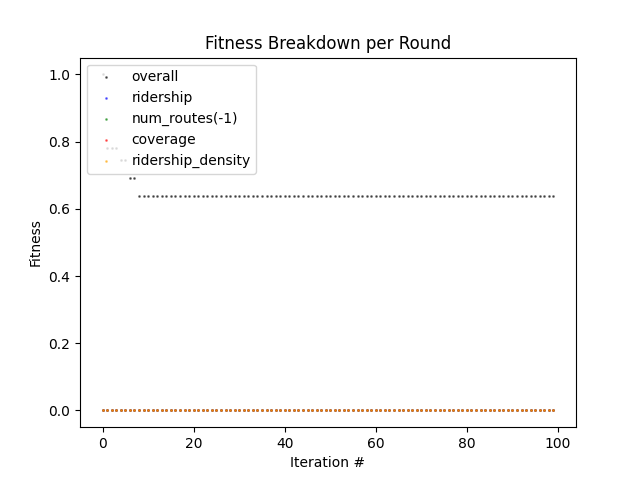
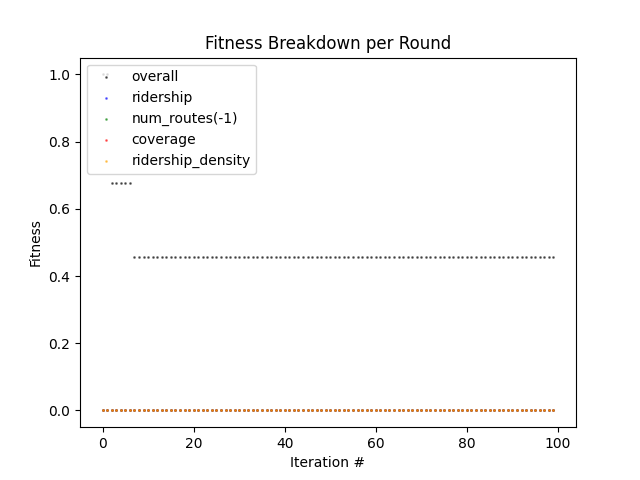
functioning, but too slow

Changed region(s): [[0.2188, 0.5312, 0.875, 0.5625], [0.2188, 0.4062, 0.875, 0.4375]]

diff --git a/source/genetic_algorithm/zone_evaluator.py b/source/genetic_algorithm/zone_evaluator.py
@@ -8,7 +8,7 @@ from root_logger import RootLogger
 
 import random 
 from typing import List
-#random.seed(10)
+random.seed(10)
 
 class Zone(Coords):
     def __init__(self, lat: float, lon: float, name: str):
@@ -40,14 +40,15 @@ class ZoneEvaluator:
         self.print_choices()
         
     def print_choices(self) -> None:
-        result_str = '*\n'
-        for zone in self.zones:
-            result_str += str(zone)
-            result_str += '\t'
-            result_str += str(self.current_stop_choices[self.get_zone_key(zone)])
-            result_str += '\n'
+        # result_str = '*\n'
+        # for zone in self.zones:
+        #     result_str += str(zone)
+        #     result_str += '\t'
+        #     result_str += str(self.current_stop_choices[self.get_zone_key(zone)])
+        #     result_str += '\n'
 
-        print(result_str + '*\n')
+        # print(result_str + '*\n')
+        print("This function is not updated to handle variable number of stop samples.")
 
     def get_zone_key(self, zone: Zone) -> int:
         return self.zone_keys[zone]
@@ -56,8 +57,8 @@ class ZoneEvaluator:
         zone_key = self.get_zone_key(zone)
         return self.stops_in_zone[zone_key]
     
-    def determine_stops_in_range(self, zone: Zone) -> List[Stop]:
-        stops = [s for s in self.pool_of_stops if s.distance_to_point(zone) < params.ZONE_RADIUS]
+    def determine_stops_in_range(self, zone: Zone) -> List[str]:
+        stops = [s.id for s in self.pool_of_stops if s.distance_to_point(zone) < params.ZONE_RADIUS]
         if stops == []:
             RootLogger.log_error(f'Failed to find stops within range {params.ZONE_RADIUS} of {zone.get_coords()}')
         else:
@@ -73,7 +74,7 @@ class ZoneEvaluator:
     def sample_stops(self):
         for z in self.zones:
             z_key = self.get_zone_key(z) 
-            self.current_stop_choices[z_key] = self.sample_stop_for_zone(z)
+            self.current_stop_choices[z_key] = [self.sample_stop_for_zone(z) for i in range(params.ZONE_SAMPLE_NUM)]
         # Update initial_zone_score with new sample
         self.initial_zone_score = self.evaluate_total_zone_distance(self.initial_network)
     
@@ -85,10 +86,10 @@ class ZoneEvaluator:
         # Basically a BFS on a list. Find nearest stop in that group by branching out left and right. 
         distance = 0 
         while cur_index_inc < trip_length or cur_index_dec >= 0:
-            if cur_index_inc < trip_length and trip.stops[cur_index_inc] in target_stops:
+            if cur_index_inc < trip_length and trip.stops[cur_index_inc].id in target_stops:
                 return distance
             
-            if cur_index_dec >= 0 and trip.stops[cur_index_dec] in target_stops:
+            if cur_index_dec >= 0 and trip.stops[cur_index_dec].id in target_stops:
                 return distance
             
             cur_index_inc += 1
@@ -101,30 +102,55 @@ class ZoneEvaluator:
     def route_distance_to_zone(self, route: SimpleRoute, source_stop: Stop, target_zone: Zone) -> int:
         trip_distances = []
         for trip in route.trips:
-            stop_index = trip.get_index_of_stop_id(source_stop.id)
-            if stop_index is not None:
+            if trip.does_stop_at(source_stop):
+                stop_index = trip.get_index_of_stop_id(source_stop)
                 trip_distances.append(self.trip_distance_to_zone(trip, stop_index, target_zone))
         
         if trip_distances == []:
-            RootLogger.log_error(f'It happened!')
+            RootLogger.log_error(f'Neither trip of route {route.id} contained stop {source_stop} that claimed to have route {route.id}!')
+            raise ValueError
 
         return min(trip_distances)
 
 
     def evaluate_zone_distance(self, target_network: TransitNetwork, source_zone: Zone, target_zone: Zone) -> float:
         source_zone_key = self.get_zone_key(source_zone)
-        source_stop = self.current_stop_choices[source_zone_key]
-        routes_options = source_stop.routes
+        all_source_stops = self.current_stop_choices[source_zone_key]
         routes_dist = []
-        for route_id in routes_options:
-            route = target_network.lookup_route_by_id(route_id)
-            route_dist = self.route_distance_to_zone(route, source_stop, target_zone)
-            routes_dist.append(route_dist)
+        all_route_options = []
+
+        # Look at all stops sampled. 
+        for source_stop in all_source_stops:
+
+            # If the stop got removed at some point, just skip it in calculations
+            if not target_network.has_stop(source_stop):
+                continue 
+            
+            route_options = target_network.get_stop_transfers(source_stop)
+            all_route_options += route_options
+
+            # Error cases
+            if route_options == [] and target_network.has_stop(source_stop):
+                stop_route_id, stop_trip_id = target_network.search_for_stop(source_stop)
+                RootLogger.log_error(f'Found stop {source_stop.id} with no routes in network {target_network.id}!')
+                if stop_route_id != None and stop_trip_id != None:
+                    RootLogger.log_error(f'Network contained stop on route {stop_route_id} and trip {stop_trip_id}, but has no transfers.')
+            
+            # Compute Distance
+            for route_id in route_options:
+                route = target_network.lookup_route_by_id(route_id)
+                try:
+                    route_dist = self.route_distance_to_zone(route, source_stop, target_zone)
+                except ValueError:
+                    RootLogger.log_error(f'Stops of {target_network.id} are improperly updated.')
+                    raise TypeError
+                routes_dist.append(route_dist)
 
         if routes_dist == [] or min(routes_dist) == float('inf'):
             RootLogger.log_warning(f'Unable to find route from {source_zone} to {target_zone}, giving distance of {params.DEFAULT_ZONE_DISTANCE}')
-            RootLogger.log_warning(f'None of {source_stop.routes} reach {target_zone}!')
+            RootLogger.log_warning(f'None of {all_route_options} reach {target_zone}!')
             return params.DEFAULT_ZONE_DISTANCE
+
         return min(routes_dist)
 
     def evaluate_total_zone_distance(self, target_network: TransitNetwork):
@@ -136,8 +162,6 @@ class ZoneEvaluator:
             dist_1 = self.evaluate_zone_distance(target_network, source_zone, target_zone)
             dist_2 = self.evaluate_zone_distance(target_network, target_zone, source_zone)
             total_zone_distance += ((dist_1 + dist_2) / 2.0)*weight
-            # if dist_1 != params.DEFAULT_ZONE_DISTANCE or dist_2 != params.DEFAULT_ZONE_DISTANCE:
-            #     print(dist_1, dist_2)
 
         return total_zone_distance
     

diff --git a/source/genetic_algorithm/breeder.py b/source/genetic_algorithm/breeder.py
@@ -46,6 +46,9 @@ def produce_child_trip(first_trip: SimpleTrip, second_trip: SimpleTrip, shared_s
     # We deepcopy because we don't want to be modifying the same stop objects for all of them. 
     RootLogger.log_debug(f'Crafting parameters for new child trip...')
     new_stops = deepcopy(first_trip.stops[:first_index] + second_trip.stops[second_index:])
+
+    # Remove the old routes from the trips.     
+
     new_shapes = deepcopy(first_trip.shape_points[:first_index] + second_trip.shape_points[second_index:])
 
     # We generate global unique ids for performance reasons. 
@@ -56,10 +59,11 @@ def produce_child_trip(first_trip: SimpleTrip, second_trip: SimpleTrip, shared_s
 
     new_trip = SimpleTrip(trip_id=new_id, route_id=new_route, message=new_message, 
                           direction=first_trip.direction, stops=new_stops, shape_points=new_shapes)
+
     RootLogger.log_debug(f'Successfuly created child trip {new_id} on new route {new_route}')
     return new_trip
 
-def get_family(parent_A_trips: List[SimpleTrip], parent_B_trips: List[SimpleTrip]) -> Family or None:
+def sample_parent_trips(parent_A_trips: List[SimpleTrip], parent_B_trips: List[SimpleTrip]) -> Tuple[SimpleTrip, SimpleTrip, str]:
     RootLogger.log_debug('Attempting to randomly sample overlapping trips...')
     times_tried = 0
     parent_trip_A = None 
@@ -81,7 +85,12 @@ def get_family(parent_A_trips: List[SimpleTrip], parent_B_trips: List[SimpleTrip
 
     if parent_trip_A is None: 
         RootLogger.log_warning(f'Failed in finding overlap between parents, returning None.')
-        return None 
+        return None, None, None
+    
+    return parent_trip_A, parent_trip_B, shared_stop_id
+
+def get_family(parent_A_trips: List[SimpleTrip], parent_B_trips: List[SimpleTrip]) -> Family or None:
+    parent_trip_A, parent_trip_B, shared_stop_id = sample_parent_trips(parent_A_trips, parent_B_trips)
 
     RootLogger.log_debug(f'Producing child trip for trips {parent_trip_A.id} and {parent_trip_B.id}.')
     child_trip_A = produce_child_trip(parent_trip_A, parent_trip_B, shared_stop_id) 
@@ -115,6 +124,7 @@ def get_child_trips(parent_A_trips: List[SimpleTrip], parent_B_trips: List[Simpl
     parent_trip_A = get_trip_by_id(parent_A_trips, trip_A_id)
     parent_trip_B = get_trip_by_id(parent_B_trips, trip_B_id)
 
+    # Children Stops
     child_trip_A = produce_child_trip(parent_trip_A, parent_trip_B, shared_stop_id) 
     child_trip_B = produce_child_trip(parent_trip_B, parent_trip_A, shared_stop_id)
 
@@ -127,8 +137,8 @@ def breed_networks(Net_A: TransitNetwork, Net_B: TransitNetwork,
 
     # Randomly choose one them to be the first parent. (i.e. which route starts in the crossover)
 
-    net_A_trips = Net_A.trips 
-    net_B_trips = Net_B.trips
+    net_A_trips = deepcopy(Net_A.trips)
+    net_B_trips = deepcopy(Net_B.trips)
 
     family = get_family(net_A_trips, net_B_trips)
     
@@ -138,11 +148,10 @@ def breed_networks(Net_A: TransitNetwork, Net_B: TransitNetwork,
         return Net_A
 
     else: 
-        # Kill parents
         RootLogger.log_debug(f'Crafting new trips for children networks...')
 
         child_trips = [t for t in net_A_trips if t not in family.parents] + [family.child_A, family.child_B]
-
+        
         RootLogger.log_debug(f'Done crafting new trips for children networks...')
 
         # Generate 'breeded' ids if none provided. 

diff --git a/source/transit_network/transit_network.py b/source/transit_network/transit_network.py
@@ -1,4 +1,4 @@
-from typing import List 
+from typing import List, Tuple
 import pandas as pd 
 import os
 import shutil
@@ -30,6 +30,7 @@ class TransitNetwork:
         self.ridership = self.get_ridership()
         self.coverage = self.get_coverage()
         self.ridership_density_score = self.get_ridership_density_score()
+        self.set_transfer_points()
 
     def get_copy(self):
         # Make this a deepcopy. 
@@ -74,6 +75,39 @@ class TransitNetwork:
 
             score += intersections * ridership
         return score 
+
+    def search_for_stop(self, stop_id: str) -> Tuple[SimpleRoute, SimpleTrip]:
+        for cur_route in self.routes:
+            for cur_trip in cur_route.trips:
+                if stop_id in cur_trip.unique_stop_ids:
+                    return (cur_route.id, cur_trip.id)
+        
+        return None, None
+    
+    def get_stop_transfers(self, target_stop_id: str) -> List[str]:
+        stop_matches = [s for s in self.stops if s.id == target_stop_id]
+        num_matches = len(stop_matches)
+        if num_matches == 0:
+            RootLogger.log_error(f'Failed to find stop of id {target_stop_id} in network {self.id}!')
+            raise KeyError
+        
+        if num_matches > 1:
+            RootLogger.log_warning(f'Found multiple stops of same id {target_stop_id} in network {self.id}, returning first one.')
+
+        return stop_matches[0].routes
+
+    def has_stop(self, stop_id: str) -> bool:
+        all_stops_id = [s.id for s in self.get_stops()]
+        return stop_id in all_stops_id
+
+    def set_transfer_points(self) -> None:
+        # Reset all transfer routes. 
+        for stop in self.stops:
+            stop.routes = [] 
+
+        for cur_trip in self.trips:
+            for stop in cur_trip.stops:
+                stop.add_transfer_routes([cur_trip.route_id])
 
     def lookup_route_by_id(self, id: str) -> SimpleRoute or None:
         matches = [r for r in self.routes if r.id == id]
@@ -192,15 +226,6 @@ def create_network_from_trips(trips: List[SimpleTrip], id: str, family: Family):
             routes_dict[route_id].append(trip)
         else:
             routes_dict[route_id] = [trip]
-
-    # Update transfers for children/parents. 
-    for child in family.children:
-        for stop in child.stops:
-            stop.add_transfer_routes([child.route_id])
-
-    for parent in family.parents:
-        for stop in parent.stops:
-            stop.remove_route(parent.route_id)
     
     new_routes = []
     for route_id in routes_dict:

diff --git a/source/genetic_algorithm/initial_population_generator.py b/source/genetic_algorithm/initial_population_generator.py
@@ -20,12 +20,14 @@ def generate_population(initial_network: TransitNetwork, population_size: int, d
     RootLogger.log_info('Generating Initial Population...')
     babys_to_breed = population_size - 1.0
     for i in range(ceil(babys_to_breed)):
+
         RootLogger.log_debug(f'Generated {i} of {population_size-1}.')
 
         # Randomly sample two parents from the current population, and do so until we fill population. 
         [parent_a, parent_b] = random.choices(current_population, k=2)
-        baby_network = breed_networks(parent_a, parent_b, str(i))
         
+        baby_network = breed_networks(parent_a, parent_b, str(i))
+
         # Add babies to new population. 
         current_population.append(baby_network)
 
@@ -44,7 +46,6 @@ def generate_population(initial_network: TransitNetwork, population_size: int, d
             metrics = generate_metrics(initial_network, current_population)
             print_metrics(metrics)
     RootLogger.log_info('Done Generating Initial Population.')
-    
     return current_population
 
 def generate_metrics(initial_network: TransitNetwork, final_population: List[TransitNetwork]) -> Dict[str, float]:

diff --git a/source/transit_network/trips.py b/source/transit_network/trips.py
@@ -50,6 +50,7 @@ class SimpleTrip(BaseTrip):
         self.shape_points = shape_points
         self.dead = False
         self.set_sequence_values_for_stops()
+        self.set_stop_transfer_points()
         
     @property
     def flattened_shape_points(self):
@@ -58,6 +59,9 @@ class SimpleTrip(BaseTrip):
     @property
     def unique_stop_ids(self):
         return [stop.id for stop in self.stops]
+
+    def does_stop_at(self, stop: str) -> bool:
+        return stop in self.unique_stop_ids
 
     def count_intersections(self):
         unique_trips = {} 
@@ -95,6 +99,10 @@ class SimpleTrip(BaseTrip):
             rows.append(new_row)
     
         return rows
+
+    def set_stop_transfer_points(self):
+        for s in self.stops:
+            s.add_transfer_routes([self.route_id])
         
     @property
     def custom_shape_id(self):

diff --git a/source/transit_network/stops.py b/source/transit_network/stops.py
@@ -33,7 +33,10 @@ class Stop:
         self.routes += [r for r in new_routes if r not in self.routes]
     
     def remove_route(self, target_route: str) -> None:
-        self.routes = [r for r in self.routes if r != target_route]
+        self.remove_routes([target_route])
+    
+    def remove_routes(self, target_routes: List[str]) -> None:
+        self.routes = [r for r in self.routes if r not in target_routes]
 
     @property
     def location_lat(self):

diff --git a/source/transit_network/routes.py b/source/transit_network/routes.py
@@ -13,8 +13,12 @@ class BaseRoute:
         self.name = name
         self.trips = []
     
-    def add_trips(self, trips: BaseTrip):
+    def add_trips(self, trips: List[BaseTrip]):
         self.trips += trips
+
+        for trip in trips:
+            for stop in trip.stops:
+                stop.add_transfer_routes([self.id])
     
     def display_trips(self):
         return ''.join([f'{t}\n' for t in self.trips])

diff --git a/source/root_logger.py b/source/root_logger.py
@@ -2,7 +2,7 @@ import logging
 from colorama import Fore, Back, Style
 
 class RootLogger:
-    LEVEL = logging.INFO
+    LEVEL = logging.DEBUG
 
     def log_info(msg):
         logging.info(f'{Fore.BLUE}{msg}{Style.RESET_ALL}')

diff --git a/source/genetic_algorithm/params.py b/source/genetic_algorithm/params.py
@@ -13,6 +13,7 @@ ZONE_LAMBDA = 0.5
 ZONE_RADIUS = 900
 ZONE_EPSILON = 0.5
 DEFAULT_ZONE_DISTANCE = 40
+ZONE_SAMPLE_NUM = 5
 # Can use to draw: https://www.calcmaps.com/map-radius/
 Z1_LAT = 37.780554
 Z1_LON = -122.472288
